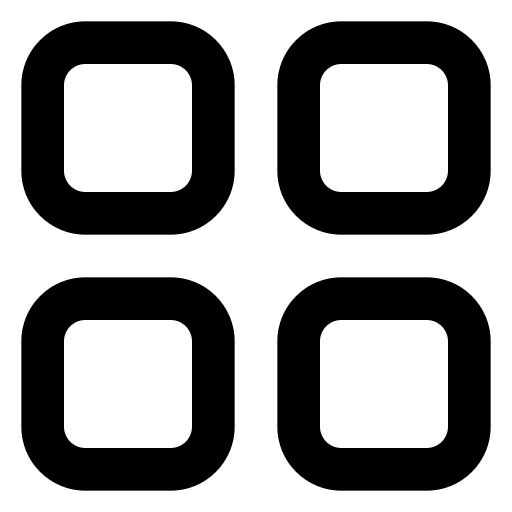
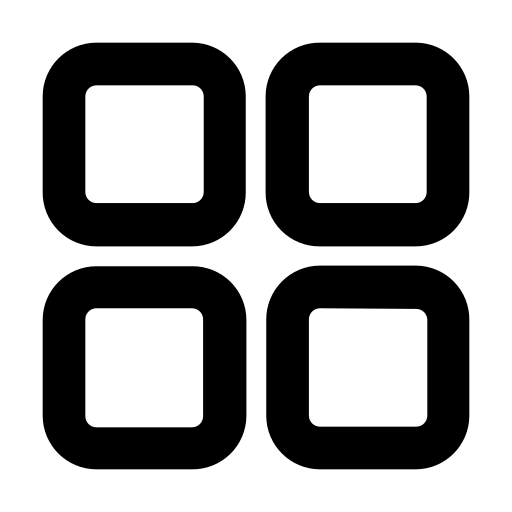
Changed the All quizzes image to other, more familiar

diff --git a/styles/page.css b/styles/page.css
@@ -265,8 +265,8 @@ body {
 }
 .sidebar-item img {
   flex-shrink: 0;
-  width: 20px;
-  height: 20px;
+  width: 22px;
+  height: 22px;
 }
 .sidebar-item:hover {
   background: #f9fafb;
@@ -283,7 +283,7 @@ body {
 }
 .sidebar-item--muted {
   color: #111;
-  font-size: 0.88rem;
+  font-size: 0.95rem;
 }
 .sidebar-item--muted img {
   width: 20px;

diff --git a/styles/page.scss b/styles/page.scss
@@ -273,8 +273,8 @@ body {
 
     img {
       flex-shrink: 0;
-      width: 20px;
-      height: 20px;
+      width: 22px;
+      height: 22px;
     }
 
     &:hover {
@@ -290,7 +290,7 @@ body {
 
     &--muted {
       color: $text;
-      font-size: 0.88rem;
+      font-size: 0.95rem;
 
       img { 
         width: 20px; 

diff --git a/page.php b/page.php
@@ -78,7 +78,7 @@ $username = htmlspecialchars($_SESSION['username']);
 
     <div class="sidebar-section">My collections</div>
     <a href="#" class="sidebar-item sidebar-item--active">
-      <img src="img/squares.png" width="16" height="16">
+      <img src="img/squares.png" width="22" height="22">
       All quizzes
     </a>
 